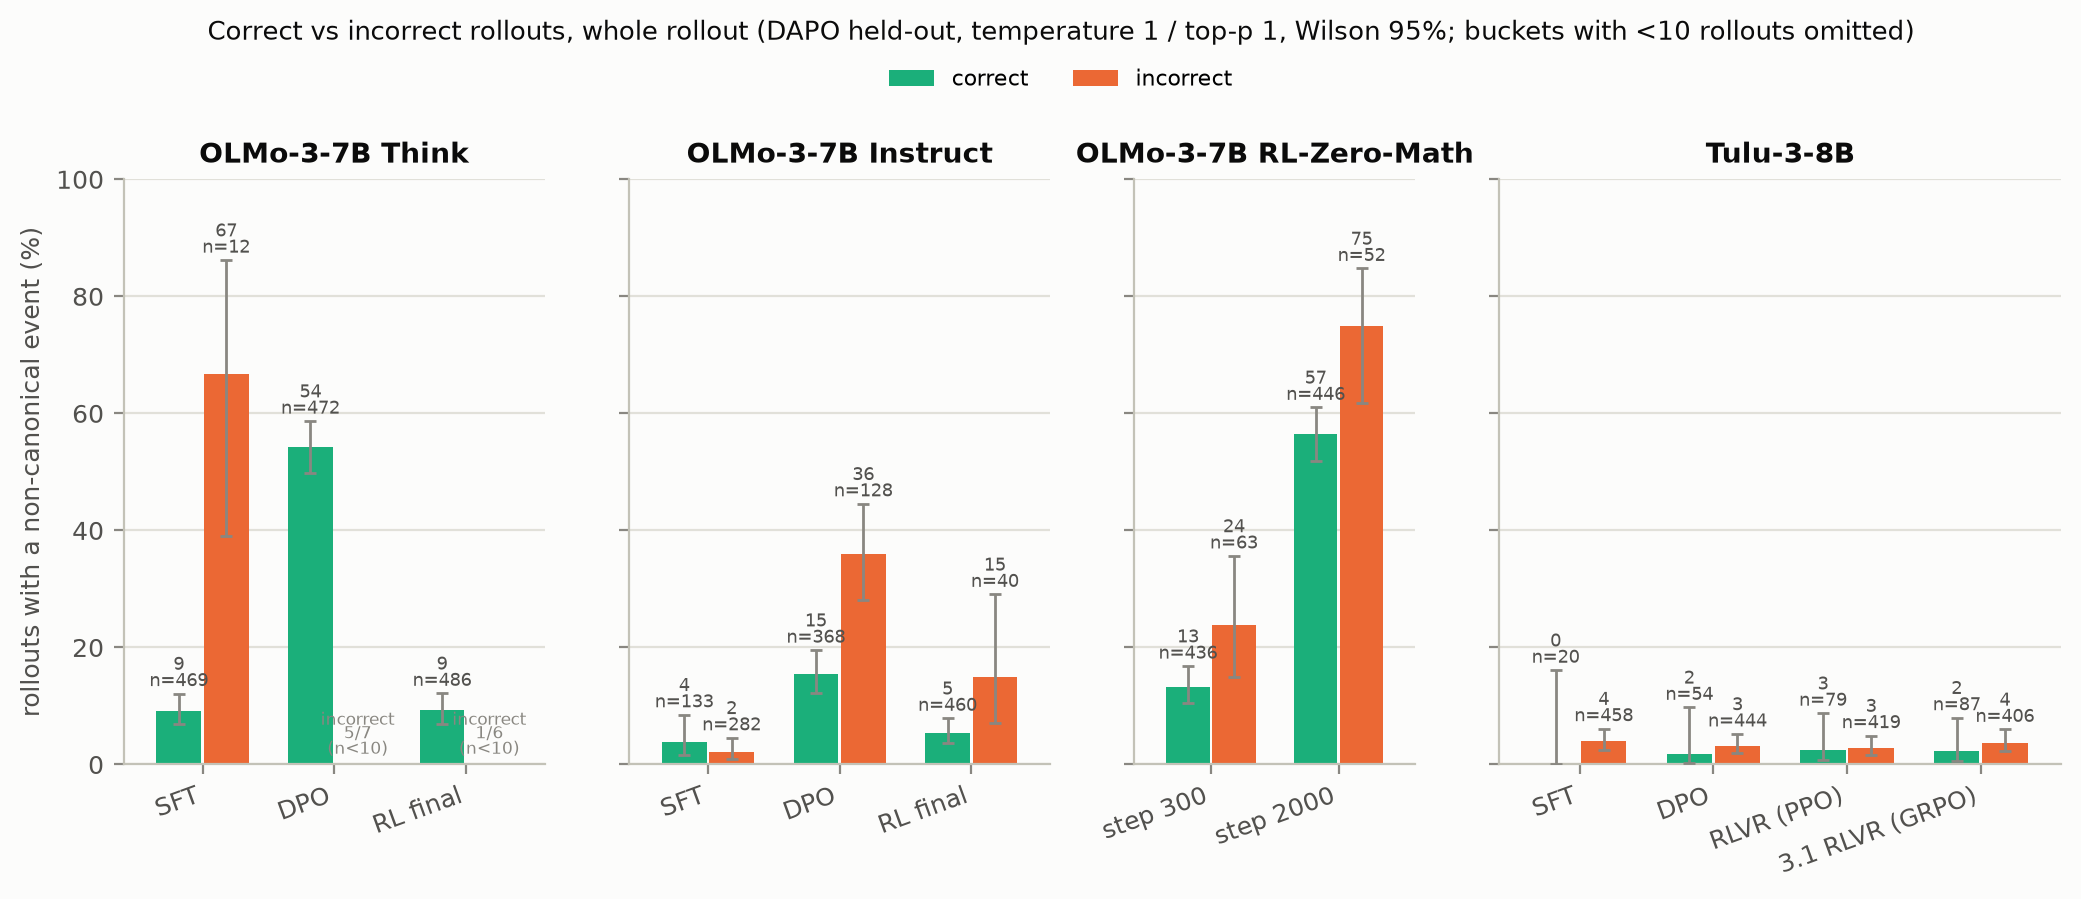
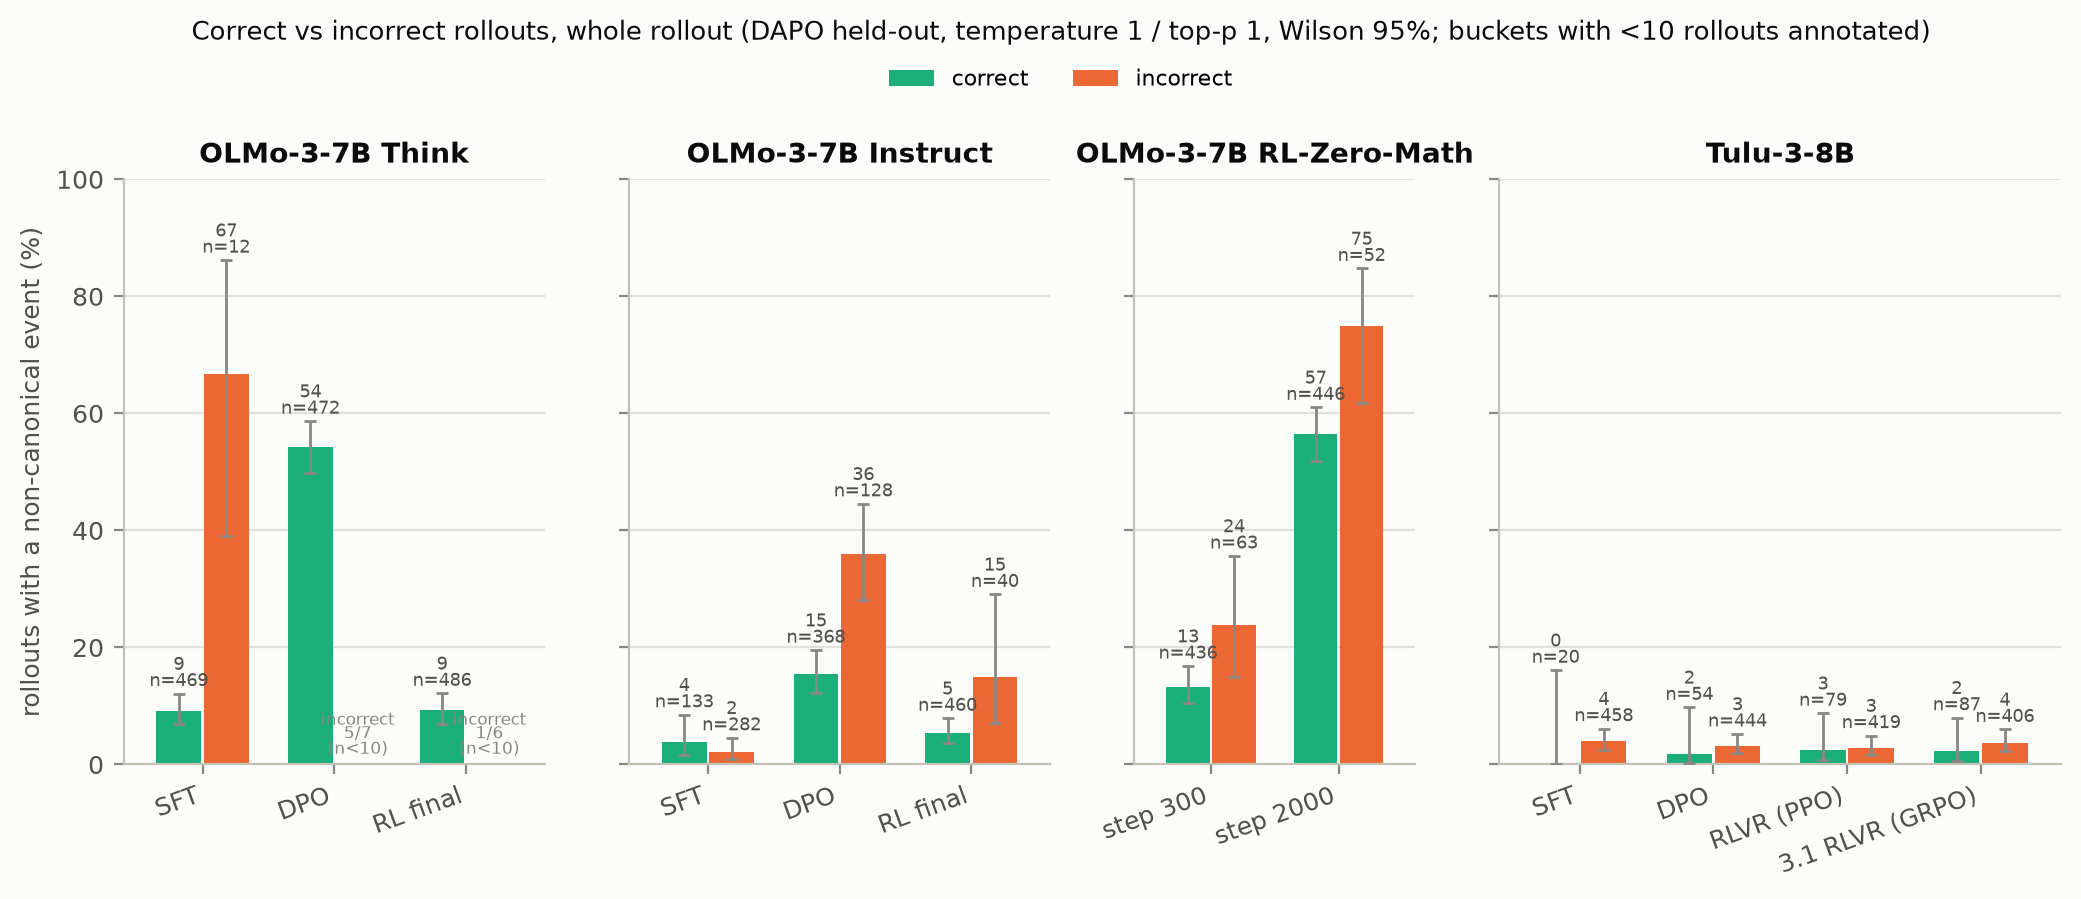
fig 8: parsed vs unparsed rollouts (bucket figure shared with fig 7)

Changed region(s): [[0.0937, 0.0, 0.937, 0.0623]]

diff --git a/scripts/figures.py b/scripts/figures.py
@@ -6,6 +6,7 @@
     uv run python scripts/figures.py 5              # figure 1 at the recommended sampling settings
     uv run python scripts/figures.py 6              # DAPO vs AIME, same model
     uv run python scripts/figures.py 7              # correct vs incorrect rollouts
+    uv run python scripts/figures.py 8              # parsed vs unparsed rollouts
 
 Figure 3 needs the rollout parquet (with logprobs) of the OLMo-3 Think and
 RL-Zero-Math cells; figure 4 needs out/divergence/<run>/untruncated.parquet.
@@ -320,31 +321,35 @@ def fig6() -> None:
     save(fig, "fig6_dapo_vs_aime.png")
 
 
-# --- 7. correct vs incorrect rollouts ------------------------------------------------
-def fig7() -> None:
-    """Whole-rollout flag rate among correct and among incorrect rollouts, every stage, temperature 1 (buckets with <10 rollouts omitted)."""
+# --- 7 / 8. outcome buckets: correct vs incorrect, parsed vs unparsed --------------------
+def fig_buckets(key: str, buckets: list[tuple[str, str, str]], title: str, filename: str) -> None:
+    """Whole-rollout flag rate per outcome bucket for every stage, temperature 1.
+
+    ``buckets`` = (label, colour, member outcomes joined by "+"); buckets with fewer than 10
+    rollouts are annotated with their counts instead of drawn."""
     from noncanon.metrics import outcome
 
-    DATA["fig7"] = {}
+    DATA[key] = {}
     ladders = {fam: [st for st in stages if st[1]] for fam, stages in LADDERS.items()}
     widths = [len(v) for v in ladders.values()]
     fig, axes = plt.subplots(1, len(ladders), figsize=(12.5, 3.8), gridspec_kw={"width_ratios": widths}, sharey=True)
     for ax, (family, stages) in zip(axes, ladders.items()):
-        for j, (bucket, color) in enumerate((("correct", AQUA), ("incorrect", ORANGE))):
+        for j, (label, color, members) in enumerate(buckets):
+            wanted = set(members.split("+"))
             pts = []
             for i, (stage, run, _) in enumerate(stages):
-                rs = [r for r in rows(run, "untruncated") if outcome(r) == bucket]
+                rs = [r for r in rows(run, "untruncated") if outcome(r) in wanted]
                 pct, lo, hi, k, n = flag_pct(rs)
                 mean_len = float(np.mean([r["n_tokens"] for r in rs])) if rs else float("nan")
-                DATA["fig7"][f"{family} | {stage} | {bucket}"] = {"pct": pct, "lo": lo, "hi": hi, "k": k, "n": n, "mean_tokens": mean_len}
+                DATA[key][f"{family} | {stage} | {label}"] = {"pct": pct, "lo": lo, "hi": hi, "k": k, "n": n, "mean_tokens": mean_len}
                 if n >= 10:
                     pts.append((i, pct, lo, hi, n))
                 else:  # too few rollouts for a bar: say so where the bar would be, so the gap does not read as zero
-                    ax.text(i + (j - 0.5) * 0.36, 1.5, f"{bucket}\n{k}/{n}\n(n<10)", ha="center", va="bottom", fontsize=6, color=MUTED, linespacing=0.9)
+                    ax.text(i + (j - 0.5) * 0.36, 1.5, f"{label}\n{k}/{n}\n(n<10)", ha="center", va="bottom", fontsize=6, color=MUTED, linespacing=0.9)
             if not pts:
                 continue
             x = np.array([i for i, *_ in pts]) + (j - 0.5) * 0.36
-            ax.bar(x, [p[1] for p in pts], width=0.34, color=color, label=bucket, zorder=2)
+            ax.bar(x, [p[1] for p in pts], width=0.34, color=color, label=label, zorder=2)
             errbar(ax, x, [p[1] for p in pts], [p[2] for p in pts], [p[3] for p in pts])
             for xi, (_, pct, _, hi, n) in zip(x, pts):
                 ax.text(xi, hi + 1, f"{pct:.0f}\nn={n}", ha="center", va="bottom", fontsize=6.5, color=INK2, linespacing=0.9)
@@ -354,12 +359,25 @@ def fig7() -> None:
     axes[0].set_ylabel("rollouts with a non-canonical event (%)")
     axes[0].set_ylim(0, 100)
     handles, labels = axes[0].get_legend_handles_labels()
-    fig.legend(handles, labels, loc="lower center", bbox_to_anchor=(0.5, 0.97), ncol=2)
-    fig.suptitle("Correct vs incorrect rollouts, whole rollout (DAPO held-out, temperature 1 / top-p 1, Wilson 95%; buckets with <10 rollouts omitted)", fontsize=9.5, color=INK, y=1.09)
-    save(fig, "fig7_correct_vs_incorrect.png")
+    fig.legend(handles, labels, loc="lower center", bbox_to_anchor=(0.5, 0.97), ncol=len(buckets))
+    fig.suptitle(title, fontsize=9.5, color=INK, y=1.09)
+    save(fig, filename)
 
 
-FIGS = {1: fig1, 2: fig2, 3: fig3, 4: fig4, 5: lambda: fig1("recommended"), 6: fig6, 7: fig7}
+def fig7() -> None:
+    fig_buckets("fig7", [("correct", AQUA, "correct"), ("incorrect", ORANGE, "incorrect")],
+                "Correct vs incorrect rollouts, whole rollout (DAPO held-out, temperature 1 / top-p 1, Wilson 95%; buckets with <10 rollouts annotated)",
+                "fig7_correct_vs_incorrect.png")
+
+
+def fig8() -> None:
+    """Parsed = finished with an integer answer (correct or not); unparsed = finished without one; rollouts cut at the 32k cap are excluded."""
+    fig_buckets("fig8", [("parsed", BLUE, "correct+incorrect"), ("unparsed", VIOLET, "unparsed")],
+                "Parsed vs unparsed rollouts, whole rollout (DAPO held-out, temperature 1 / top-p 1, Wilson 95%; truncated rollouts excluded; buckets with <10 rollouts annotated)",
+                "fig8_parsed_vs_unparsed.png")
+
+
+FIGS = {1: fig1, 2: fig2, 3: fig3, 4: fig4, 5: lambda: fig1("recommended"), 6: fig6, 7: fig7, 8: fig8}
 
 
 def main() -> None:

diff --git a/README.md b/README.md
@@ -40,7 +40,7 @@ noncanon/
 prompts/         generated prompt files and the DAPO filter report (committed)
 scripts/         recompute every cell's metrics; run every comparison; check_results.py verifies the generated tables in RESULTS.md
                  figures.py renders figures/ from the metrics under out/ (numbers to figures/data.json): stages, RL-Zero steps,
-                 span rank, divergence, recommended settings, DAPO vs AIME, correct vs incorrect;
+                 span rank, divergence, recommended settings, DAPO vs AIME, correct vs incorrect, parsed vs unparsed;
                  random_examples.py and flag_composition.py print the uniformly sampled spans and the flagged-fraction decomposition
 figures/         the rendered figures and their data
 skypilot/        RunPod task definitions
